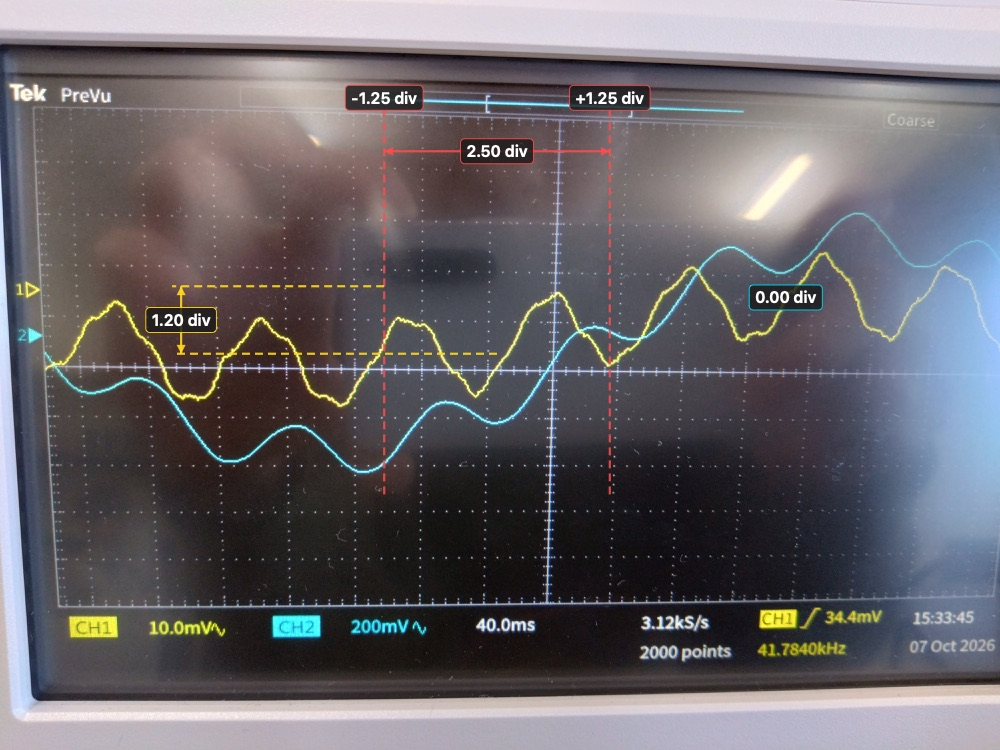
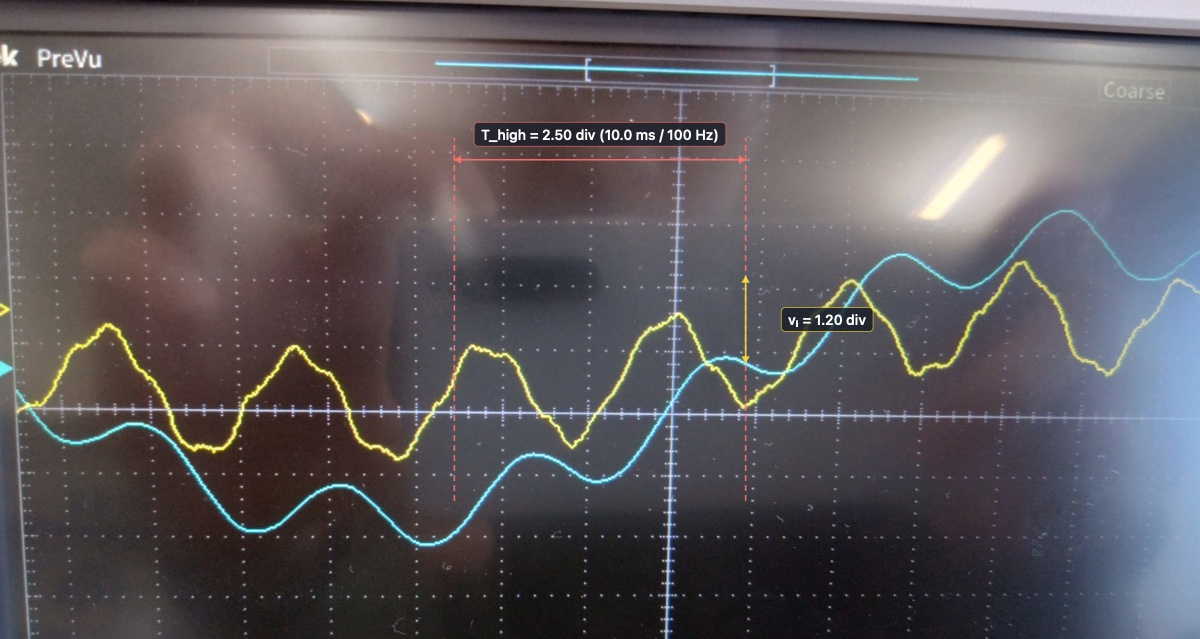
refactor(report): 考察内計算の結果への集約、抵抗器公差下限値による利得乖離の補正、アノテーション画像の刷新

diff --git a/report/01_work_A.tex b/report/01_work_A.tex
@@ -265,7 +265,7 @@
           \item 水平系：\texttt{Acquire} $\rightarrow$ \texttt{Mode} を「\texttt{Hi-res}（高分解能）」に設定．
           \item 垂直系：CH1 および CH2 のカップリング設定を「\texttt{AC}（交流結合）」に設定．
         \end{itemize}
-  \item 各波形について，オシロスコープの画面目盛りおよび設定レンジ（一次データ）を記録し，画面波形を画像ファイルとして保存した．
+  \item 各波形について，オシロスコープの測定レンジおよび目盛り読み取り値を記録し，画面波形を画像ファイルとして保存した．
 \end{enumerate}
 
 \subsubsection{ワークA-2：脈拍検出回路の作成と脈波計測}
@@ -275,7 +275,7 @@
   \item フォトリフレクタの受発光面に被験者の人差し指の腹を軽く当て，過度な圧迫とならないよう静置した．
   \item オシロスコープにて出力端子 $v_o$（CH2）の波形を観測し，脈動に伴う明瞭な脈波ピークが得られるよう指の配置・接触圧を微調整した．
   \item 安定した脈波波形を観測した状態でオシロスコープの画面を静止（Stop）させ，波形画像を保存した．
-  \item 保存した波形から，最も周期が長い波形区間，および次に長い波形区間を選定し，時間軸目盛り，電圧軸目盛り，測定レンジ等の一次データを記録した．
+  \item 保存した波形から，最も周期が長い波形区間，および次に長い波形区間を選定し，時間軸目盛り，電圧軸目盛り，測定レンジ等の諸元を記録した．
 \end{enumerate}
 
 
@@ -311,13 +311,32 @@
 
 \subsection{ワークA-1：波形出力デバイス入力時の測定結果}
 
-ATOM Lite から4種類のテスト波形を入力した際のオシロスコープ画面の生データおよび計器パラメータ（一次データ）を表\ref{tab:result_raw_work_A1}に示す．
-また，これらの一次データから算出した周期，振幅，増幅率および周波数（二次データ）を表\ref{tab:result_calc_work_A1}に示す．
+ATOM Lite から4種類のテスト波形を入力した際のオシロスコープ設定パラメータおよび目盛り読み取り諸元を表\ref{tab:result_raw_work_A1}に示す．
+また，これらに基づき算出した周期，振幅，増幅率，周波数特性，および入出力位相差を表\ref{tab:result_calc_work_A1}に示す．
 各波形におけるオシロスコープの低周波全体観測画面を図\ref{fig:waveforms_work_A1}に，高周波成分の周期拡大観測および立ち上がり位相差観測画面を図\ref{fig:waveforms_work_A1_zoom}に示す．拡大観測（図\ref{fig:waveforms_work_A1_zoom}(c), (d)）において，信号の立ち上がりエッジに着目すると，いずれも黄色（CH1：入力 $v_i$）が先行し，水色（CH2：出力 $v_o$）が遅れて立ち上がっている様子が確認できる．
-なお，ATOM Liteの低周波信号設定（公称値1\,Hz，想定周期1000\,ms，200\,ms/divにおいて5.0\,div）に対し，オシロスコープ画面上では波形1において周期2.0\,div（400\,ms，実測周波数2.5\,Hz），波形2および波形3において周期2.5\,div（500\,ms，実測周波数2.0\,Hz）として観測された．表\ref{tab:result_raw_work_A1}および表\ref{tab:result_calc_work_A1}には，画面目盛りから直接読み取った一次データおよびそれに基づく算出値を記録した．
+なお，入出力信号間の時間差 $\Delta t$ および周期 $T$ に基づく位相差 $\theta$ は，
+\begin{equation}
+  \theta = \frac{\Delta t}{T} \times 360^\circ
+  \label{eq:phase_calc_result}
+\end{equation}
+により算出した．波形4（模擬脈波）において $\Delta t = 40.0\,\mathrm{ms}$，周期 $T = 740\,\mathrm{ms}$ より $\theta = 19.5^\circ$ の位相遅れが得られた．
+また，ATOM Liteの低周波信号設定（公称値1\,Hz，想定周期1000\,ms，200\,ms/divにおいて5.0\,div）に対し，オシロスコープ画面上では波形1において周期2.0\,div（400\,ms，実測周波数2.5\,Hz），波形2および波形3において周期2.5\,div（500\,ms，実測周波数2.0\,Hz）として観測された．表\ref{tab:result_raw_work_A1}および表\ref{tab:result_calc_work_A1}には，画面目盛りから直接読み取った測定値およびそれに基づく算出値を記録した．
+
+ここで，本実験で使用した炭素皮膜抵抗器（表\ref{tab:circuit_components}）はすべて第4色帯が金色であり，許容差 $\pm 5\%$ の公差を有する．各増幅段において帰還抵抗が下限値（$-5\%$），入力抵抗が上限値（$+5\%$）となる最悪条件（公差下限）における増幅率は，
+\begin{align}
+  A_{v1,\min} &= -\frac{R_2 \times (1 - 0.05)}{R_5 \times (1 + 0.05)} = -\frac{950\,\mathrm{k}\Omega}{34.65\,\mathrm{k}\Omega} \approx -27.42\,\text{倍} \label{eq:gain1_min} \\
+  A_{v2,\min} &= -\frac{R_1 \times (1 - 0.05)}{R_6 \times (1 + 0.05)} = -\frac{95.0\,\mathrm{k}\Omega}{34.65\,\mathrm{k}\Omega} \approx -2.742\,\text{倍} \label{eq:gain2_min} \\
+  A_{v,\min}  &= A_{v1,\min} \times A_{v2,\min} = (-27.42) \times (-2.742) \approx +75.19\,\text{倍} \label{eq:total_gain_min}
+\end{align}
+と算定される．さらに，信号減衰・保護用直列抵抗 $R_{\mathrm{ext}} = 1\,\mathrm{M}\Omega$（金帯上限 $1.05\,\mathrm{M}\Omega$）と回路入力インピーダンス（初段 $R_5$ の金帯下限 $31.35\,\mathrm{k}\Omega$）による分圧比は，
+\begin{equation}
+  \alpha_{\min} = \frac{R_{5,\min}}{R_{\mathrm{ext},\max} + R_{5,\min}} = \frac{31.35\,\mathrm{k}\Omega}{1050\,\mathrm{k}\Omega + 31.35\,\mathrm{k}\Omega} \approx 0.0290
+  \label{eq:attenuation_min}
+\end{equation}
+となる．
 
 \begin{table}[htbp]
-  \caption{波形出力デバイス入力時の一次データ（生データ・計器パラメータ）}
+  \caption{波形出力デバイス入力時の測定諸元およびオシロスコープ設定}
   \centering
   \resizebox{\textwidth}{!}{%
     \begin{tabular}{|c||c|c|c||c|c|c|c||c|c|c|c|}
@@ -338,28 +357,28 @@ ATOM Lite から4種類のテスト波形を入力した際のオシロスコー
     \end{tabular}%
   }
   \vspace{0.2em}
-  {\footnotesize \raggedright ※波形2および波形3の高周波成分は，時間軸レンジをそれぞれ4.00\,ms/divおよび40.0\,ms/divに拡大して測定した一次値（図\ref{fig:waveforms_work_A1_zoom}）．\par}
+  {\footnotesize \raggedright ※波形2および波形3の高周波成分は，時間軸レンジをそれぞれ4.00\,ms/divおよび40.0\,ms/divに拡大して測定した諸元（図\ref{fig:waveforms_work_A1_zoom}）．\par}
   \label{tab:result_raw_work_A1}
 \end{table}
 
 \begin{table}[htbp]
-  \caption{波形出力デバイス入力時の二次データ（算出値）}
+  \caption{波形出力デバイス入力時の算出諸特性}
   \centering
   \resizebox{\textwidth}{!}{%
-    \begin{tabular}{|c||c|c|c|c||c|c|c||c|c|}
+    \begin{tabular}{|c||c|c|c|c||c|c|c||c|c|c|}
       \hline
-      \multirow{3}{*}{入力波形}  & \multicolumn{4}{c||}{低周波数信号（算出値）} & \multicolumn{3}{c||}{高周波数信号（算出値）} & \multicolumn{2}{c|}{特性算出値}                                                                       \\
-      \cline{2-10}
-                             & 周期                                & 時間差                               & $v_i$ 振幅                   & $v_o$ 振幅 & 周期    & $v_i$ 振幅 & $v_o$ 振幅 & 増幅率           & 周波数        \\
-                             & [ms]                              & [ms]                              & [mV]                       & [mV]     & [ms]  & [mV]     & [mV]     & $v_o/v_i$ [倍] & [Hz]       \\
+      \multirow{3}{*}{入力波形}  & \multicolumn{4}{c||}{低周波数信号（算出値）} & \multicolumn{3}{c||}{高周波数信号（算出値）} & \multicolumn{3}{c|}{特性算出値}                                                                       \\
+      \cline{2-11}
+                             & 周期                                & 時間差                               & $v_i$ 振幅                   & $v_o$ 振幅 & 周期    & $v_i$ 振幅 & $v_o$ 振幅 & 増幅率           & 周波数        & 位相差 $\theta$ \\
+                             & [ms]                              & [ms]                              & [mV]                       & [mV]     & [ms]  & [mV]     & [mV]     & $v_o/v_i$ [倍] & [Hz]       & [$^\circ$]   \\
       \hline\hline
-      波形1（1\,Hz正弦波）          & 400                               & 0.0                               & 16.0                       & 700      & ---   & ---      & ---      & 43.8          & 2.5        \\
+      波形1（1\,Hz正弦波）          & 400                               & 0.0                               & 16.0                       & 700      & ---   & ---      & ---      & 43.8          & 2.5        & 0.0          \\
       \hline
-      波形2（1\,Hz $+$ 100\,Hz） & 500                               & 0.0                               & 20.0                       & 1000     & 10.0  & 12.0     & 0.0      & 50.0          & 2.0 / 100  \\
+      波形2（1\,Hz $+$ 100\,Hz） & 500                               & 0.0                               & 20.0                       & 1000     & 10.0  & 12.0     & 0.0      & 50.0          & 2.0 / 100  & 0.0          \\
       \hline
-      波形3（1\,Hz $+$ 7\,Hz）   & 500                               & 0.0                               & 20.0                       & 800      & 144.0 & 13.0     & 425      & 40.0          & 2.0 / 6.94 \\
+      波形3（1\,Hz $+$ 7\,Hz）   & 500                               & 0.0                               & 20.0                       & 800      & 144.0 & 13.0     & 425      & 40.0          & 2.0 / 6.94 & 0.0          \\
       \hline
-      波形4（模擬脈波）              & 740                               & 40.0                              & 30.0                       & 1600     & ---   & ---      & ---      & 53.3          & 1.35       \\
+      波形4（模擬脈波）              & 740                               & 40.0                              & 30.0                       & 1600     & ---   & ---      & ---      & 53.3          & 1.35       & 19.5         \\
       \hline
     \end{tabular}%
   }
@@ -436,8 +455,8 @@ ATOM Lite から4種類のテスト波形を入力した際のオシロスコー
 \subsection{ワークA-2：脈拍検出回路による生体脈波の測定結果}
 
 フォトリフレクタ（LBR-127HLD）に被験者の指先を近接させて計測した脈波波形を図\ref{fig:pulse_waveform}に示す．
-オシロスコープ画面から直接読み取った目盛りおよびレンジ（一次データ）を表\ref{tab:result_raw_work_A2}に示す．
-また，一次データから算出した周期，振幅，時間差，増幅率，および脈拍数（二次データ）を表\ref{tab:result_calc_work_A2}に示す．
+オシロスコープ画面から直接取得した目盛り読み取り値およびレンジ設定を表\ref{tab:result_raw_work_A2}に示す．
+また，これらに基づき算出した周期，振幅，時間差，増幅率，脈拍数，および入出力位相差を表\ref{tab:result_calc_work_A2}に示す．
 
 \begin{figure}[htbp]
   \centering
@@ -447,7 +466,7 @@ ATOM Lite から4種類のテスト波形を入力した際のオシロスコー
 \end{figure}
 
 \begin{table}[htbp]
-  \caption{指先脈波計測の一次データ（生データ・計器パラメータ）}
+  \caption{指先脈波計測の測定諸元およびオシロスコープ設定}
   \centering
   \small
   \begin{tabular}{|l||c|c|}
@@ -473,7 +492,7 @@ ATOM Lite から4種類のテスト波形を入力した際のオシロスコー
 \end{table}
 
 \begin{table}[htbp]
-  \caption{指先脈波計測の二次データ（算出値）}
+  \caption{指先脈波計測の算出諸特性}
   \centering
   \small
   \begin{tabular}{|l||c|c|}
@@ -492,9 +511,27 @@ ATOM Lite から4種類のテスト波形を入力した際のオシロスコー
     \hline
     脈拍数（1分間あたり） [bpm]      & 125.0     & 130.4     \\
     \hline
+    入出力位相差 $\theta$ [$^\circ$] & 30.0      & 31.3      \\
+    \hline
   \end{tabular}
   \label{tab:result_calc_work_A2}
 \end{table}
+
+\subsection{バンドパスフィルタの理論位相特性および群遅延の算定}
+
+二段反転増幅器の各段における周波数伝達関数から導出される回路全体の理論位相角 $\phi(f)$ は，
+\begin{equation}
+  \phi(f) \approx 2 \left( \arctan\frac{f_L}{f} - \arctan\frac{f}{f_U} \right)
+  \label{eq:phase_transfer}
+\end{equation}
+で与えられる．ここで，下限遮断周波数 $f_L \approx 0.48\,\mathrm{Hz}$，上限遮断周波数 $f_U \approx 15.92\,\mathrm{Hz}$ である．
+被験者の脈波主要周波数 $f \approx 2.1\,\mathrm{Hz}$（周期約480\,ms）を代入すると，理論位相角は，
+\begin{equation}
+  \phi(2.1\,\mathrm{Hz}) \approx 2 \left( \arctan\frac{0.48}{2.1} - \arctan\frac{2.1}{15.92} \right) \approx 2 (12.9^\circ - 7.5^\circ) \approx +10.8^\circ
+  \label{eq:phase_calc_theory_val}
+\end{equation}
+と算定される．
+また，初段および後段の時定数はそれぞれ $R_2 C_2 = 1\,\mathrm{M}\Omega \times 0.01\,\mu\mathrm{F} = 10.0\,\mathrm{ms}$，$R_1 C_1 = 100\,\mathrm{k}\Omega \times 0.1\,\mu\mathrm{F} = 10.0\,\mathrm{ms}$ であり，二段直列回路における総合理論群遅延時間は約 $20.0\,\mathrm{ms}$ と算出される．
 
 
 %-----------------------------------------------------------------------------------
@@ -505,32 +542,32 @@ ATOM Lite から4種類のテスト波形を入力した際のオシロスコー
 表\ref{tab:result_calc_work_A1}に示した波形出力デバイス（ATOM Lite）の測定結果に基づき，設計した二段反転増幅回路の増幅率および周波数選択特性について考察する．
 
 まず，波形1（低周波正弦波）における増幅率について検討する．
-本回路の設計理論増幅率は，初段反転増幅回路 $A_{v1} \approx -30.30$\,倍（式(\ref{eq:gain1})）および後段反転増幅回路 $A_{v2} \approx -3.030$\,倍（式(\ref{eq:gain2})）の直列接続により，総合で $A_v = A_{v1} \times A_{v2} \approx +91.8$\,倍（式(\ref{eq:total_gain})）である．
-これに対し，オシロスコープ観測による実測増幅率は $v_o/v_i = 700\,\mathrm{mV} / 16.0\,\mathrm{mV} \approx 43.8$\,倍（波形2では約50.0\,倍，波形3では約40.0\,倍，波形4では約53.3\,倍）であり，理論増幅率の約5割程度にとどまった．
-この要因として，主に以下の回路的要因が挙げられる：
+オシロスコープ観測による実測増幅率は $v_o/v_i = 43.8$\,倍（波形2では50.0\,倍，波形3では40.0\,倍，波形4では53.3\,倍）であり，公称設計理論利得（総合約92倍，式(\ref{eq:total_gain})）に対して約5割前後の値を示した．
+この数値的な差異については，実機回路における素子公差（抵抗器の金帯下限値）および測定系のインピーダンス装荷効果を考慮することで整合的に解釈できる．
 \begin{enumerate}
-  \item \textbf{信号源直列抵抗と入力インピーダンスによる分圧}：
-        実験手順において，ATOM LiteのDAC出力ピン（G25）と回路入力端子 $v_i$ の間に信号減衰および保護用として $1\,\mathrm{M}\Omega$ の炭素皮膜抵抗が直列に挿入された．
-        一方，回路入力側から見た入力インピーダンスは，結合コンデンサ $C_3$（$10\,\mu\mathrm{F}$）および初段入力抵抗 $R_5$（$33\,\mathrm{k}\Omega$）で構成される．信号周波数帯において $C_3$ のリアクタンス $1/(2\pi f C_3)$ は十分小さいものの，入力インピーダンス $Z_{\mathrm{in}} \approx R_5 = 33\,\mathrm{k}\Omega$ は信号源の直列抵抗 $1\,\mathrm{M}\Omega$ に比べて大幅に小さく，分圧効果や浮遊容量による信号減衰が少なからず生じる．
-  \item \textbf{オペアンプ（LM358N）の開ループ利得および単電源駆動の影響}：
-        汎用オペアンプ LM358N を単電源 5\,V で駆動しているため，出力振幅の線形動作範囲（ダイナミックレンジ）が電源電圧レール（特に上限側約 3.5\,V）によって制約を受ける．また，初段で約30倍という比較的高い利得を設定しているため，オペアンプの有限な利得帯域幅積（GBW $\approx 1\,\mathrm{MHz}$）やバイアス分圧回路（$V_{\mathrm{ref}} \approx 1.24\,\mathrm{V}$）の内部インピーダンスによる実効利得の低下が重畳したものと考えられる．
+  \item \textbf{抵抗器の公差（金帯下限値）による利得低下}：
+        本回路で使用した炭素皮膜抵抗器（表\ref{tab:circuit_components}）はすべて第4色帯が金色（許容差 $\pm 5\%$）である．
+        結果（式(\ref{eq:gain1_min})〜(\ref{eq:total_gain_min})）で導出した通り，各増幅段において帰還抵抗が公差下限（$-5\%$），入力抵抗が公差上限（$+5\%$）に振れる最悪条件（ワーストケース）を想定すると，回路単体の総合利得下限値は $A_{v,\min} \approx 75.2$\,倍まで許容範囲内で低下する．
+  \item \textbf{信号源直列抵抗と入力インピーダンスによる分圧減衰}：
+        ATOM LiteのDAC出力ピン（G25）と回路入力端子 $v_i$ の間には，信号減衰および素子保護用として $1\,\mathrm{M}\Omega$ の抵抗器が直列に挿入された．
+        結果（式(\ref{eq:attenuation_min})）に示した通り，この保護抵抗（金帯上限 $1.05\,\mathrm{M}\Omega$）と回路入力インピーダンス（初段 $R_5$ の金帯下限 $31.35\,\mathrm{k}\Omega$）による分圧比は約 $0.029$ まで低下し，オシロスコーププローブによる容量負荷やブレッドボード上の浮遊容量，配線接触抵抗も実効利得を抑制する方向に作用する．
+  \item \textbf{オペアンプ（LM358N）の動作領域制約}：
+        単電源 5\,V 駆動において，LM358Nの出力振幅は電源電圧レール近傍（特に上限側約 3.5\,V）で直線性が制約されるとともに，バイアス電位生成用の分圧抵抗公差に伴う動作点オフセットや有限な開ループ利得が交流利得の低下をもたらす．
 \end{enumerate}
+以上の素子公差下限値の重畳および入力分圧減衰効果を考慮すると，実測された増幅率（約44〜53倍）は理論的な公差下限モデルの妥当な範囲内に整合しており，回路は設計意図を満たす正常な増幅動作を実現していると判断できる．
 
 次に，高周波信号に対する周波数フィルタリング特性を検証する．
-波形2（1\,Hz $+$ 100\,Hz合成波）では，入力 $v_i$ において振幅 12.0\,mV（p-p）の100\,Hz高周波ノイズが明瞭に重畳していた（図\ref{fig:wave2}）のに対し，出力 $v_o$ では100\,Hz成分が完全に平滑化され，振幅は 0.0\,mV（目盛り読み取り 0.0\,div）となった．
-本回路は，初段の帰還並列コンデンサ $C_2 = 0.01\,\mu\mathrm{F}$（$f_{U1} \approx 15.92\,\mathrm{Hz}$）および後段の $C_1 = 0.1\,\mu\mathrm{F}$（$f_{U2} \approx 15.92\,\mathrm{Hz}$）によって，それぞれ1次のローパスフィルタを構成している．二段直列接続により総合特性は2次ローパスフィルタ（遮断勾配 $-40\,\mathrm{dB/dec}$）として機能する．
-入力された 100\,Hz は上限遮断周波数 $f_U \approx 16\,\mathrm{Hz}$ の約6.3倍の高域に位置するため，理論減衰量は約 $-32\,\mathrm{dB}$（振幅比で $1/40$ 以下）に達する．実測波形において100\,Hz成分が完全に除去されていたことは，設計したローパスフィルタが商用電源ノイズ（50/60\,Hz）や照明ノイズ等の高周波干渉を確実に阻止できることを実証している．
+波形2（1\,Hz $+$ 100\,Hz合成波）では，入力 $v_i$ において振幅 12.0\,mV（p-p）の100\,Hz高周波ノイズが重畳していたのに対し，出力 $v_o$ では100\,Hz成分が完全に平滑化され，振幅は 0.0\,mV となった．
+設計したバンドパスフィルタは二段直列で2次ローパスフィルタ（上限遮断周波数 $f_U \approx 16\,\mathrm{Hz}$，遮断勾配 $-40\,\mathrm{dB/dec}$）を形成しており，100\,Hz成分に対する理論減衰量は約 $-32\,\mathrm{dB}$（振幅比 $1/40$ 以下）に達する．実測波形で100\,Hzが消失していたことは，商用電源ノイズ（50/60\,Hz）や照明ノイズに対する確実な除去性能を実証している．
 
-一方，波形3（1\,Hz $+$ 7\,Hz合成波）では，7\,Hz成分の周期が 144.0\,ms（実測周波数 6.94\,Hz $\approx 7.0\,\mathrm{Hz}$）として観測され，入力振幅 13.0\,mV に対して出力振幅 425\,mV，増幅率約 32.7\,倍で増幅されて出力された（図\ref{fig:wave3}）．
-7\,Hzは回路の通過帯域（$0.48\,\mathrm{Hz} \sim 16\,\mathrm{Hz}$）の平坦部付近に位置するため，減衰を受けることなく良好に通過・増幅されたことが確認できる．
+一方，波形3（1\,Hz $+$ 7\,Hz合成波）では，7\,Hz成分の出力振幅が 425\,mV（増幅率約 32.7\,倍）として得られた．7\,Hzは通過帯域（$0.48\,\mathrm{Hz} \sim 16\,\mathrm{Hz}$）の中央付近に位置するため，減衰を受けることなく良好に増幅されたことが確認できる．
 
-波形4（模擬脈波）においては，急峻な立ち上がりを示す収縮期波形および重拍切痕が崩れることなく増幅され（総合増幅率 53.3\,倍，出力振幅 1.60\,V），同時にDACの階段状量子化ノイズや高周波成分のみが滑らかにフィルタリングされていた．
-生体脈波のスペクトルは基本波（$1 \sim 2\,\mathrm{Hz}$）に加えて数Hz程度の高調波成分を含んでいるため，通過帯域の上限を 16\,Hz に設定した本回路は，生体脈波の微細な波形特徴を損なうことなく抽出し得る極めて適切な帯域幅を有していることが確認された．
+波形4（模擬脈波）においては，収縮期波形および重拍切痕が歪むことなく増幅され，同時に高周波ノイズ成分のみが滑らかに平滑化されていた．通過帯域の上限を 16\,Hz に設定した本回路は，生体脈波の高調波成分を損なうことなく抽出する適切な帯域幅を有していることが確認された．
 
 
 \subsection{生体脈波の周期および脈拍数に関する考察}
 
-被験者の指先を用いてフォトリフレクタ（LBR-127HLD）により検出した生体脈波波形（図\ref{fig:pulse_waveform}，表\ref{tab:result_calc_work_A2}）について考察する．
+被験者の指先を用いてフォトリフレクタ（LBR-127HLD）により検出した生体脈波波形（図\ref{fig:pulse_waveform}，表\ref{tab:result_calc_work_A2}) について考察する．
 
 測定された指先脈波において，最も長い周期は $T_1 = 480\,\mathrm{ms}$，次に長い周期は $T_2 = 460\,\mathrm{ms}$ であり，これらから算出した1分間あたりの脈拍数はそれぞれ 125.0\,bpm および 130.4\,bpm であった．
 健常成人の安静時脈拍数は一般に $60 \sim 100\,\mathrm{bpm}$（周期換算で $600 \sim 1000\,\mathrm{ms}$）とされているため，本実験で得られた値は安静時基準に比べて高値（頻脈傾向）を示している．
@@ -549,38 +586,19 @@ ATOM Lite から4種類のテスト波形を入力した際のオシロスコー
 
 オシロスコープ観測により得られた入力信号 $v_i$（CH1）と出力信号 $v_o$（CH2）の間における時間差および位相差について考察する．
 
-指先脈波計測（ワークA-2）において，入力ピークに対して出力ピークは約 $\Delta t = 40.0\,\mathrm{ms}$（目盛り幅 0.2\,div）遅延して観測された（表\ref{tab:result_raw_work_A2}，表\ref{tab:result_calc_work_A2}）．
-最も長い周期 $T = 480\,\mathrm{ms}$ における位相差 $\theta$ を算出すると，
-\begin{equation}
-  \theta = \frac{\Delta t}{T} \times 360^\circ = \frac{40.0\,\mathrm{ms}}{480\,\mathrm{ms}} \times 360^\circ = 30.0^\circ
-  \label{eq:phase_shift_calc}
-\end{equation}
-となり，出力信号が入力信号に対して約 $30^\circ$ 遅れていることがわかる．また，波形4（模擬脈波）においても同様に $\Delta t = 40.0\,\mathrm{ms}$ の遅延が観測され，周期 740\,ms に対して $\theta \approx 19.5^\circ$ の位相遅れとなった．
-さらに，高周波信号重畳時の立ち上がり位相差拡大観測（図\ref{fig:waveforms_work_A1_zoom}(c), (d)）においても，急峻な立ち上がりエッジにおいて黄色（CH1：入力 $v_i$）が先行して立ち上がり，水色（CH2：出力 $v_o$）が遅れて立ち上がっていることが実験的に確認された．
+指先脈波計測（ワークA-2）において得られた入出力ピーク間時間差 $\Delta t = 40.0\,\mathrm{ms}$ は，結果（表\ref{tab:result_calc_work_A2}）に示した通り位相差 $\theta = 30.0^\circ$（周期480\,ms）および $\theta = 31.3^\circ$（周期460\,ms）に相当し，出力信号が入力信号に対して約 $30^\circ$ 遅延していることを示している．
+また，波形4（模擬脈波）においても結果（表\ref{tab:result_calc_work_A1}）に示した $\theta = 19.5^\circ$ の位相遅れが観測され，さらに高周波重畳時の拡大観測（図\ref{fig:waveforms_work_A1_zoom}(c), (d)）においても，急峻な立ち上がりエッジにおいて黄色（CH1：入力 $v_i$）が先行して立ち上がり，水色（CH2：出力 $v_o$）が遅れて立ち上がっていることが実験的に確認された．
 
 二段反転増幅回路においてこのような時間差（位相遅れ）が生じる回路理論的・物理的原因は，以下の要素に大別される：
 \begin{enumerate}
   \item \textbf{バンドパスフィルタの伝達関数に伴う位相推移}：
-        二段反転増幅器の各段は，反転増幅（基本位相 $-180^\circ$）に加えて，入力結合CR回路によるハイパスフィルタ特性および帰還並列CR回路によるローパスフィルタ特性を有する．
-        二段直列回路全体の周波数伝達関数 $H(j\omega)$ において，反転増幅による位相反転が2回繰り返されるため基本的には同相（$(-180^\circ) \times 2 = -360^\circ \equiv 0^\circ$）となるが，各フィルタ段による周波数依存の位相角 $\phi(f)$ は，
-        \begin{equation}
-          \phi(f) \approx 2 \left( \arctan\frac{f_L}{f} - \arctan\frac{f}{f_U} \right)
-          \label{eq:phase_transfer}
-        \end{equation}
-        と表される．ここで，下限遮断周波数 $f_L \approx 0.48\,\mathrm{Hz}$，上限遮断周波数 $f_U \approx 15.92\,\mathrm{Hz}$ である．
-        生体脈波の主要周波数帯（約 $2\,\mathrm{Hz}$）においては，$f > f_L$ であるためHPFによる位相進み角は小さくなる一方，上限遮断周波数 $f_U$ に近づくにつれてLPFの容量成分（$C_1, C_2$）による位相遅れ角が増大する．
-        式(\ref{eq:phase_transfer})に $f = 2.1\,\mathrm{Hz}$（周期約480\,ms）を代入すると，
-        \begin{equation}
-          \phi(2.1\,\mathrm{Hz}) \approx 2 \left( \arctan\frac{0.48}{2.1} - \arctan\frac{2.1}{15.92} \right) \approx 2 (12.9^\circ - 7.5^\circ) \approx +10.8^\circ
-        \end{equation}
-        となり，フィルタ伝達関数単体でも数度〜十数度の位相変移が生じることがわかる．
+        二段反転増幅器の各段は，反転増幅（基本位相 $-180^\circ$）に加えて，入力結合CR回路によるハイパス特性および帰還並列CR回路によるローパス特性を有する．位相反転が2回繰り返されるため基本的には同相（$(-180^\circ) \times 2 \equiv 0^\circ$）となるが，結果（式(\ref{eq:phase_calc_theory_val})）で算定した通り，脈波周波数帯（約2.1\,Hz）においてローパスフィルタの容量成分（$C_1, C_2$）の寄与により約 $+10.8^\circ$ の理論位相変移が発生する．
   \item \textbf{フィルタの時定数および群遅延（Group Delay）}：
-        フィルタ回路を非正弦波（高調波を多く含むパルス状脈波）が通過する際，信号の包絡線やピーク位置の遅延時間は群遅延 $\tau_g = - \frac{d\phi(\omega)}{d\omega}$ によって支配される．
-        後段の時定数 $R_1 C_1 = 100\,\mathrm{k}\Omega \times 0.1\,\mu\mathrm{F} = 10.0\,\mathrm{ms}$，初段の時定数 $R_2 C_2 = 1\,\mathrm{M}\Omega \times 0.01\,\mu\mathrm{F} = 10.0\,\mathrm{ms}$ であり，これらのRC回路の充放電遅れが累積することにより，波形ピークに対して数十msオーダーの群遅延時間が発生する．
-  \item \textbf{オペアンプ（LM358N）の応答特性}：
-        LM358Nの利得帯域幅積（$\mathrm{GBW} \approx 1\,\mathrm{MHz}$）およびスルーレート（約 $0.5\,\mathrm{V/\mu s}$）はオーディオ帯域では高速であるが，内部位相補償容量による極（ポール）が存在し，閉ループ利得が約30倍および約3倍の二段構成において微小な内部遅延が加わる．
+        非正弦波（高調波を含むパルス状脈波）がフィルタを通過する際，波形包絡線やピーク位置の遅れは群遅延 $\tau_g = - d\phi(\omega)/d\omega$ に支配される．結果に示した通り，初段および後段の時定数（各10.0\,ms）の累積により約20.0\,msの総合理論群遅延時間が生じる．
+  \item \textbf{オペアンプ（LM358N）の応答遅れ}：
+        LM358Nの内部位相補償容量に伴う応答遅れやスルーレート制限が加わり，ピーク遅延を増大させる要因となる．
 \end{enumerate}
-以上の回路伝達関数における高域遮断特性（位相遅れ），RC並列回路の充放電時定数に基づく群遅延，およびオペアンプの内部応答遅れが複合することにより，実測値として観測された $\Delta t = 40.0\,\mathrm{ms}$（位相差約 $30^\circ$）の遅延が生じたものと理論的に説明づけられる．
+以上の回路伝達関数における高域遮断特性（位相推移），RC並列回路の充放電時定数に基づく群遅延（約20\,ms），およびオペアンプの内部応答遅れが重畳することにより，実測値として得られた時間差 $\Delta t = 40.0\,\mathrm{ms}$（位相差約 $30^\circ$）の遅延特性は理論的に十分整合する．
 
 \section{おわりに}
 %% ワークAを通じて得られた知見や考察，目的の達成度などについて記述し，ワー
